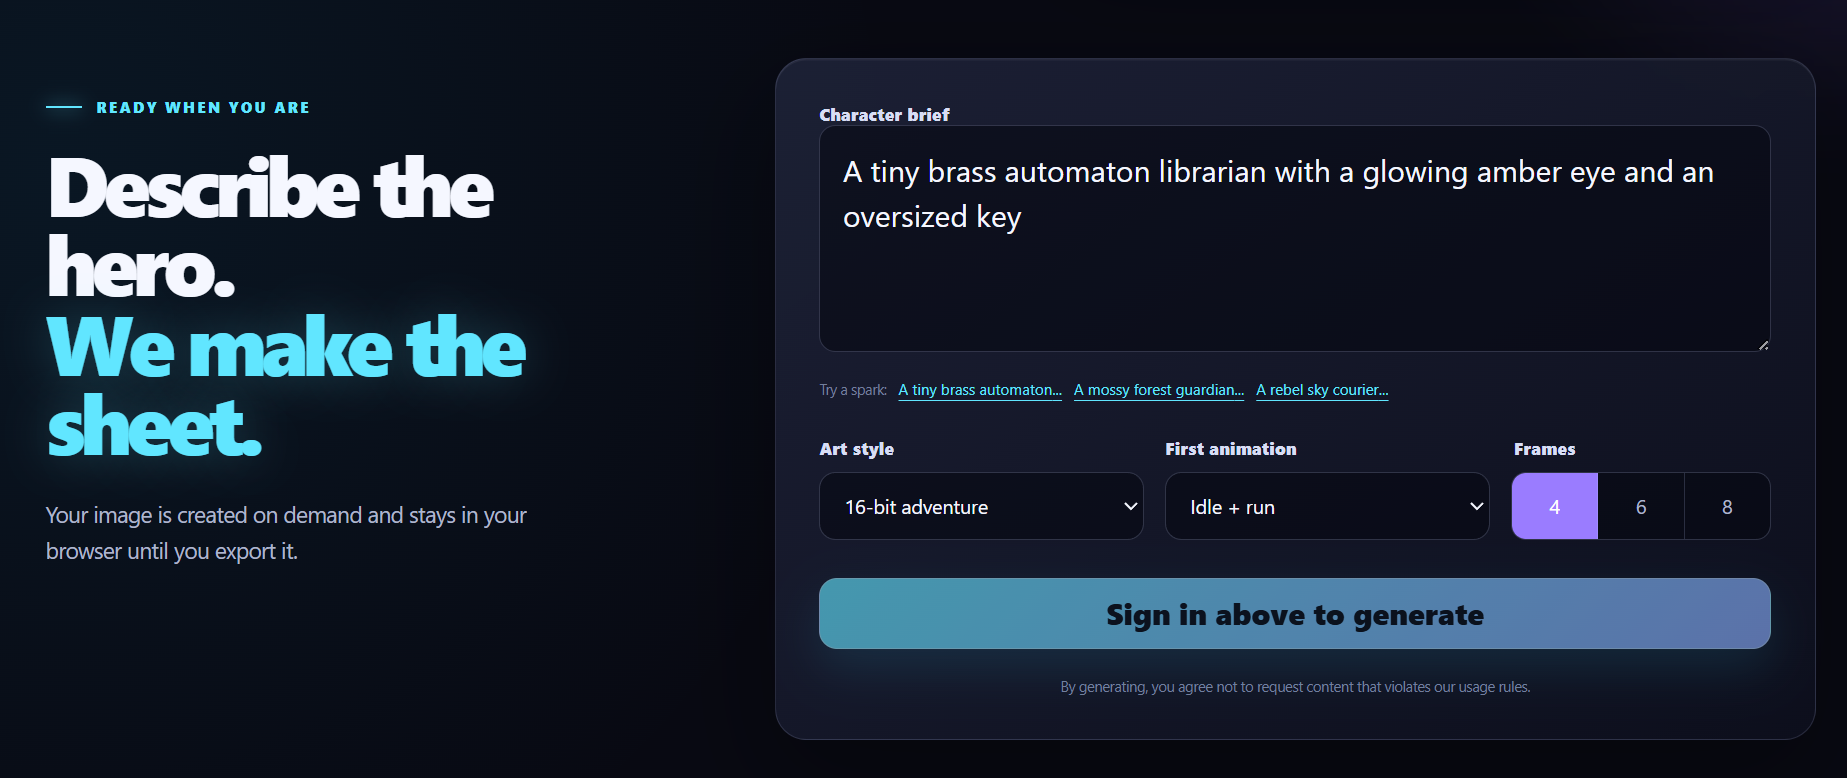
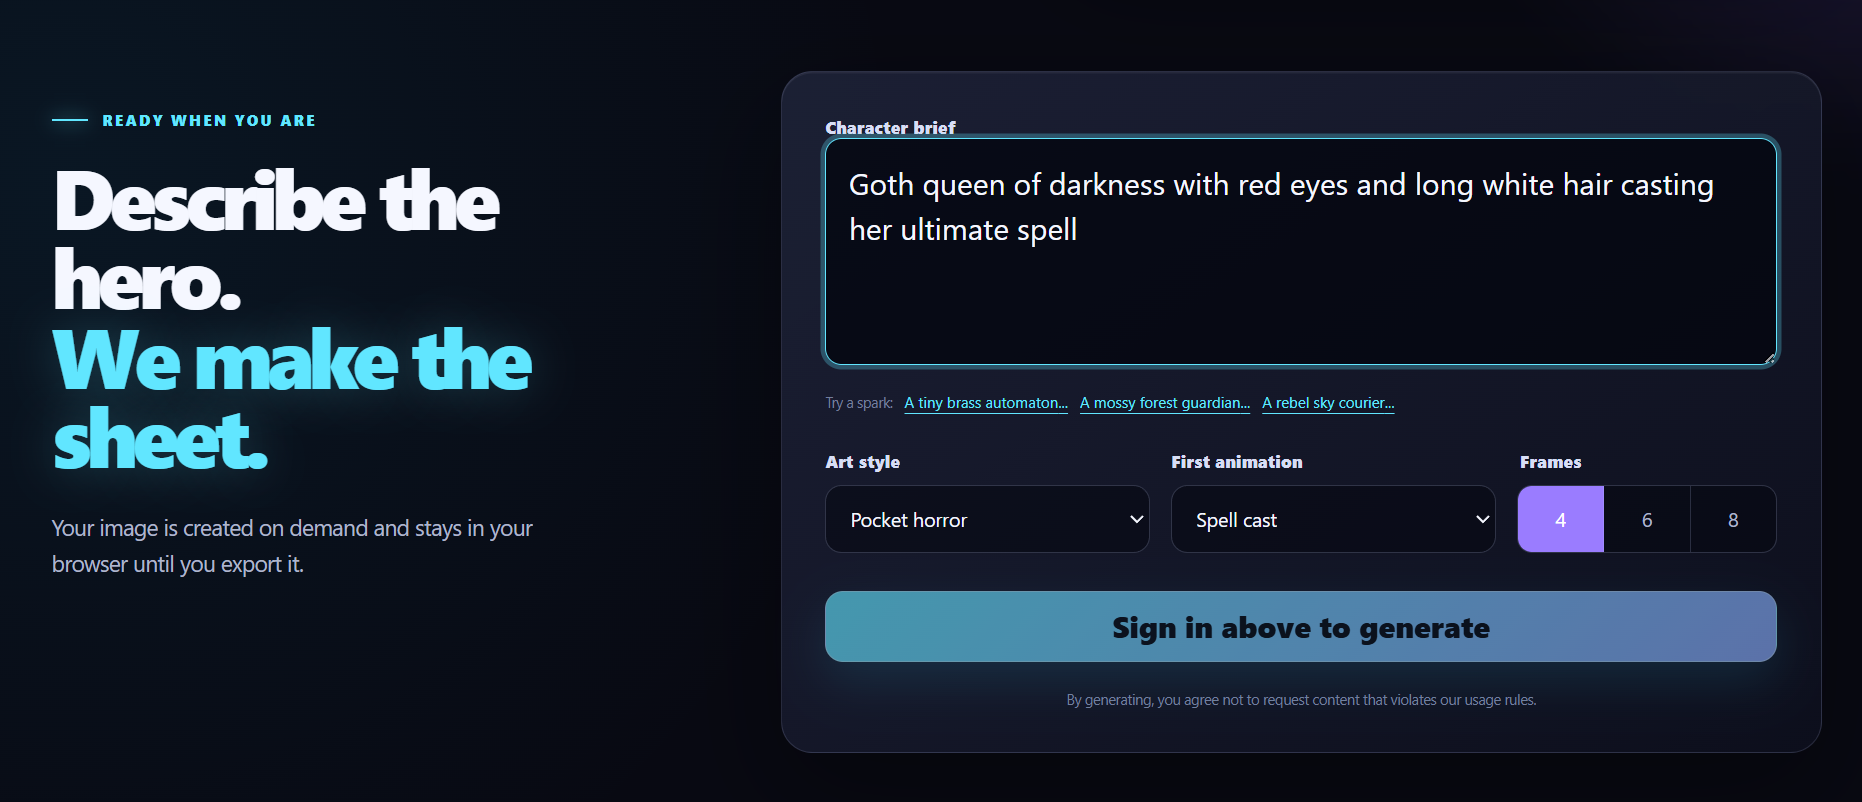
Refresh README studio and export previews

diff --git a/README.md b/README.md
@@ -27,9 +27,9 @@ Every verified account receives **3 generations per UTC day**. This keeps the fr
 
 ## What the studio looks like
 
-| Character controls | Generated asset |
+| Studio controls | Export-ready sprite sheet |
 | --- | --- |
-| ![Sprityful studio controls](docs/previews/sprityful-studio.png) | ![Example generated sprite sheet](docs/previews/sprityful-generated-sprites.png) |
+| ![Sprityful studio controls](docs/previews/sprityful-studio.png) | ![Generated sprite sheet with JSON and PNG download controls](docs/previews/sprityful-generated-sprites.png) |
 
 ## Run Sprityful locally
 